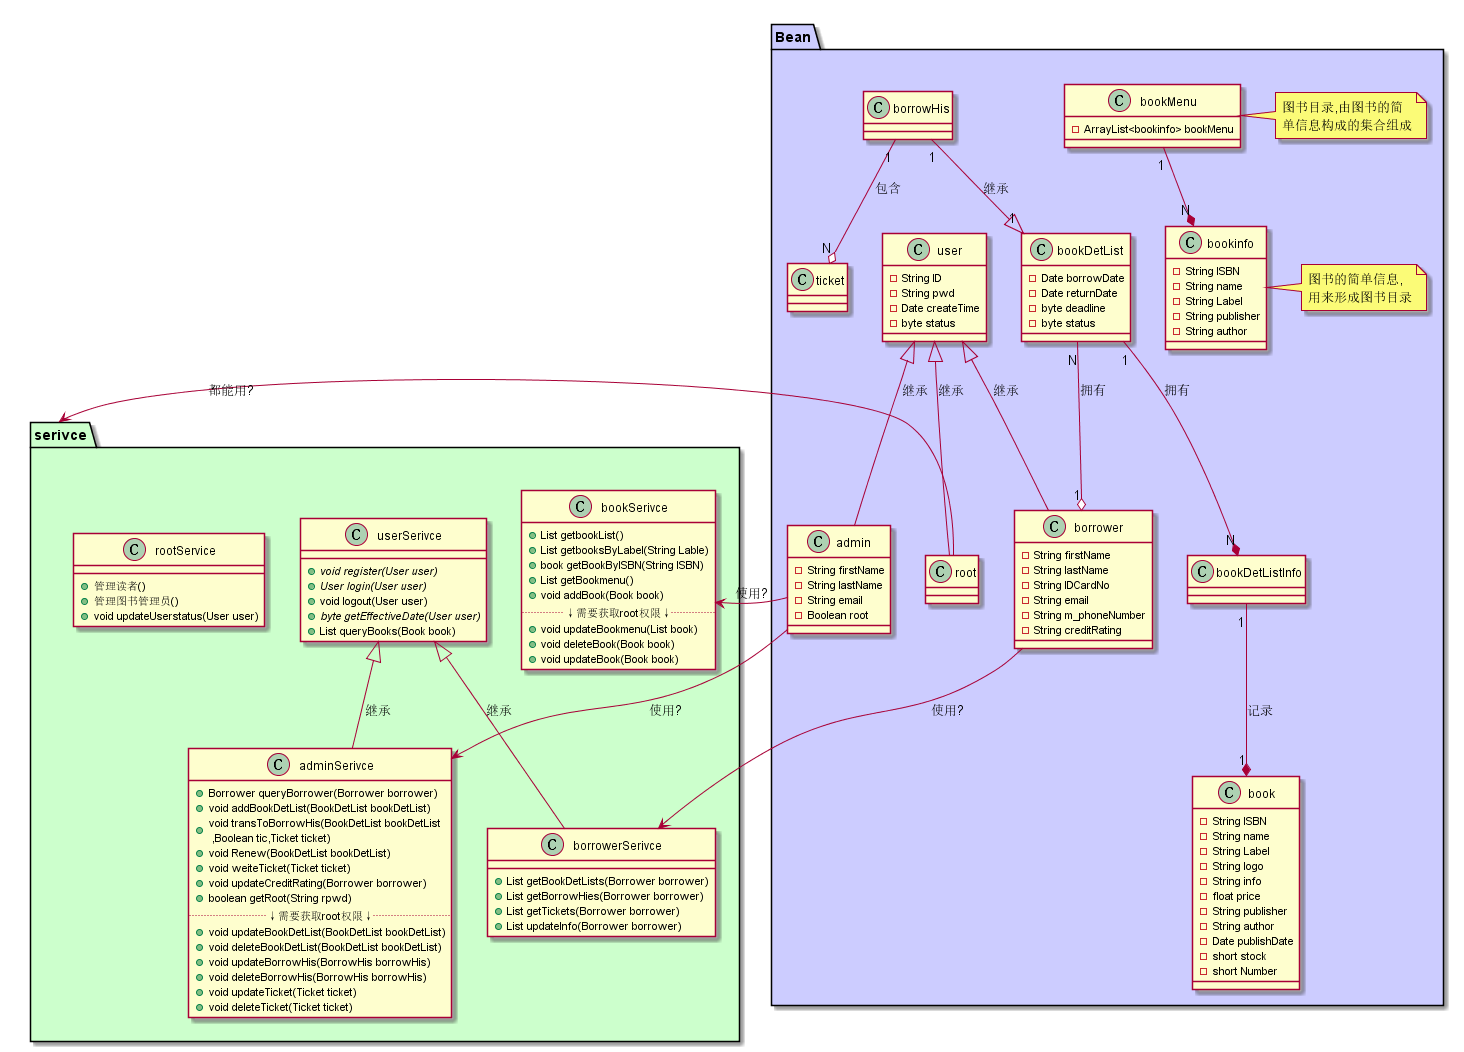
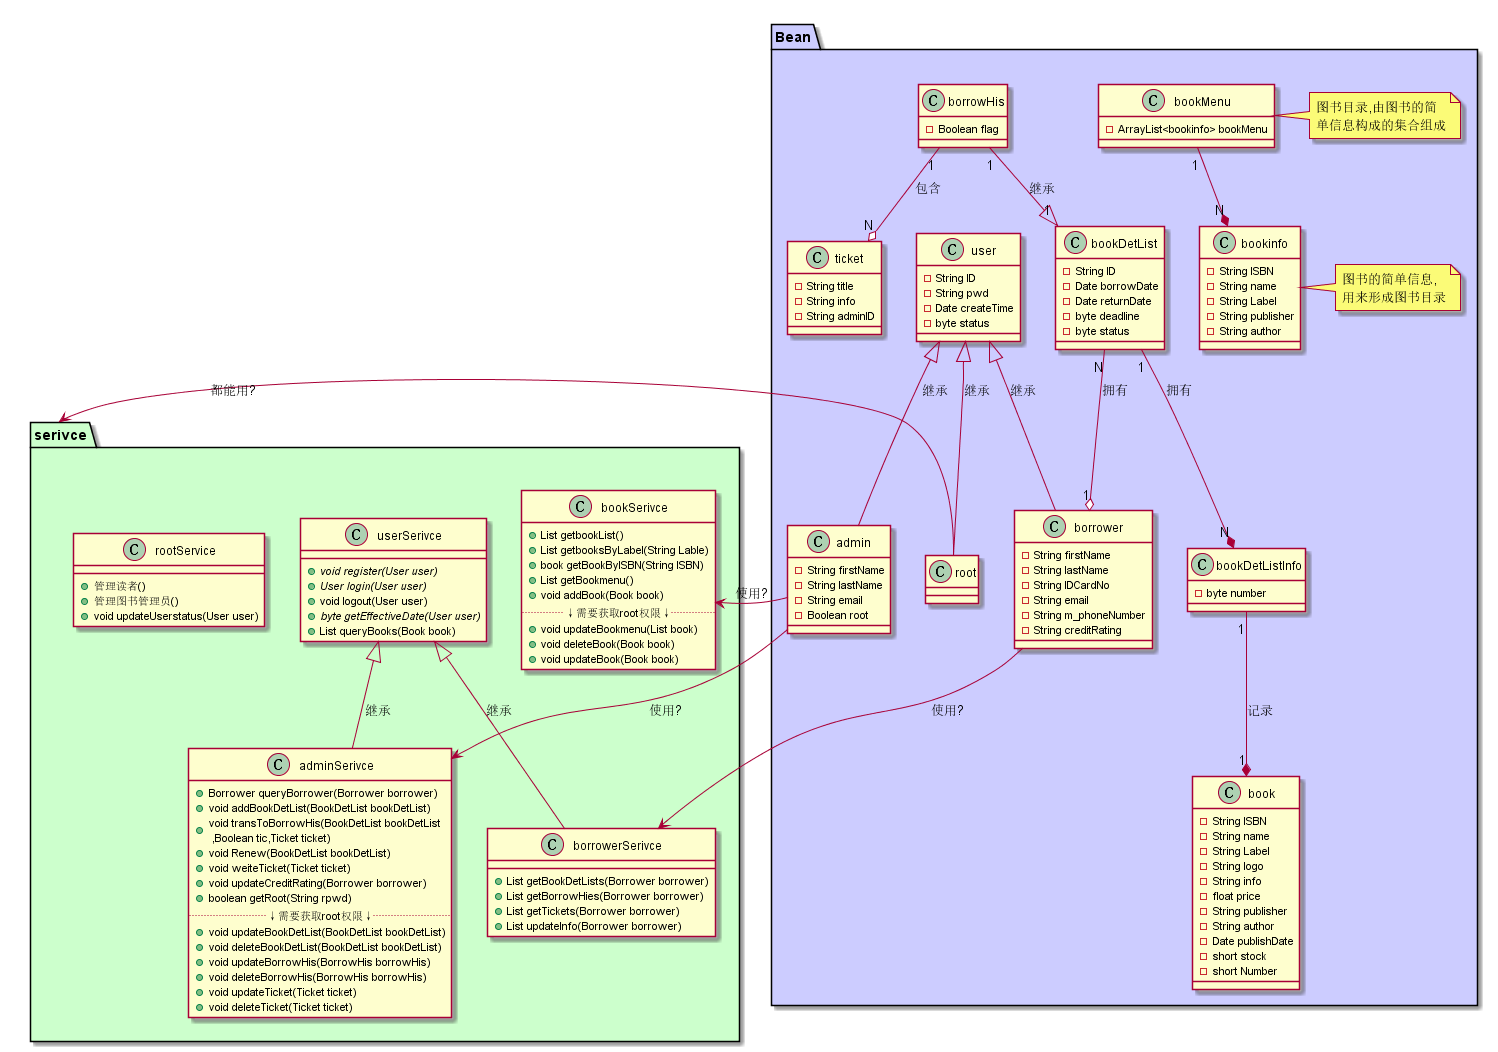
更新了类图,补全了类图

diff --git a/test3/README.md b/test3/README.md
@@ -4,12 +4,31 @@
 ![classViev](../out/test3/classView/classView.png)
 ### 代码
 [点击查看](classView.pu)
-### 类的说明
-```
-1
-```
+### 说明
+<pre>
+    1.类图中各个类的中文意义在"图书管理系统对象图"的代码说明中给出
+    2.类图中直接继承过来的属性不再在子类中写出
+    3.从图中看出,Bean中的类基本对应Test 2中用例或流程图中所需要的实体,service中的类对应于其中涉及到的操作所需的方法
+    4.图中大部分线是真的表示的类之间的关系(大概?),有些线是词穷(也许)
+</pre>
+
+## 图书管理系统对象图
 ### 说明
 ~~~
-2
+    1.在下面对象图中的看见的仅由'x'/'n'/'-'等组成或者一连串的他们的例子,那一定是作者懒得想例子用他们代替.
+    2.其中的"n"表示任意数字;"x"表示任意数字/中文/字母;"-"用于用在以上两者之间起分割作用
 ~~~
-## 图书管理系统对象图
+### 2.2.1借阅者对象图
+![借阅者对象图](../out/test3/objectView/borrower.png)
+### 2.2.2图书管理员对象图
+![图书管理员对象图](../out/test3/objectView/admin.png)
+### 2.2.3超级管理员对象图
+![超级管理员对象图](../out/test3/objectView/root.png)
+### 2.2.4图书对象图
+![图书对象图](../out/test3/objectView/book.png)
+### 2.2.5借书单对象图
+![借书单对象图](../out/test3/objectView/bookDetList.png)
+### 2.2.6借书历史对象图
+![借书历史对象图](../out/test3/objectView/borrowHis.png)
+### 2.2.7书目对象图
+![书目对象图](../out/test3/objectView/bookMenu.png)
